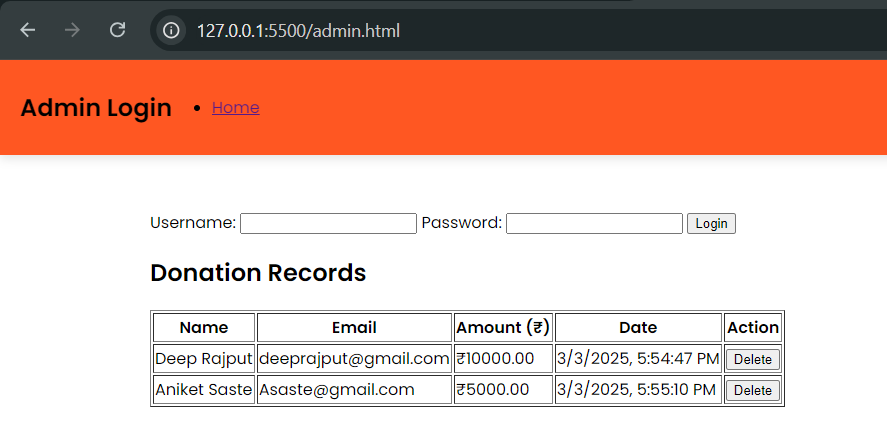
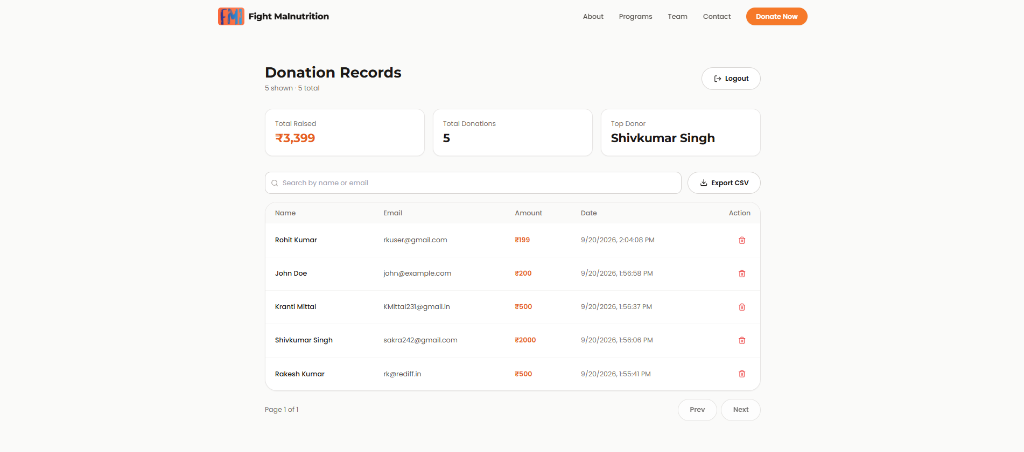
Readme Updated

diff --git a/README.md b/README.md
@@ -13,7 +13,7 @@
 <br>
 
 <p align="center">
-  <img src="docs/landing.jpg">
+  <img src="docs/landing.png">
 </p>
 
 Fight Malnutrition India connects donors, healthcare workers, and communities to combat malnutrition at scale. The platform delivers a modern donation portal, community program exploration, impact transparency reports, and a protected administrative dashboard for managing donations and analytics.
@@ -97,7 +97,7 @@ In-depth educational resources break down the nutritional gap, addressing micron
 Grassroots initiatives operate across thousands of villages to deliver sustainable nutrition.
 
 <p align="center">
-  <img src="docs/program-impact.jpg">
+  <img src="docs/program-impact.png">
 </p>
 
 Structured programs such as the Nourish India Program, Healthy Mothers Healthy Future, and Swachh Poshan Abhiyan drive measurable growth indicators and reduced anemia in high-priority districts.
